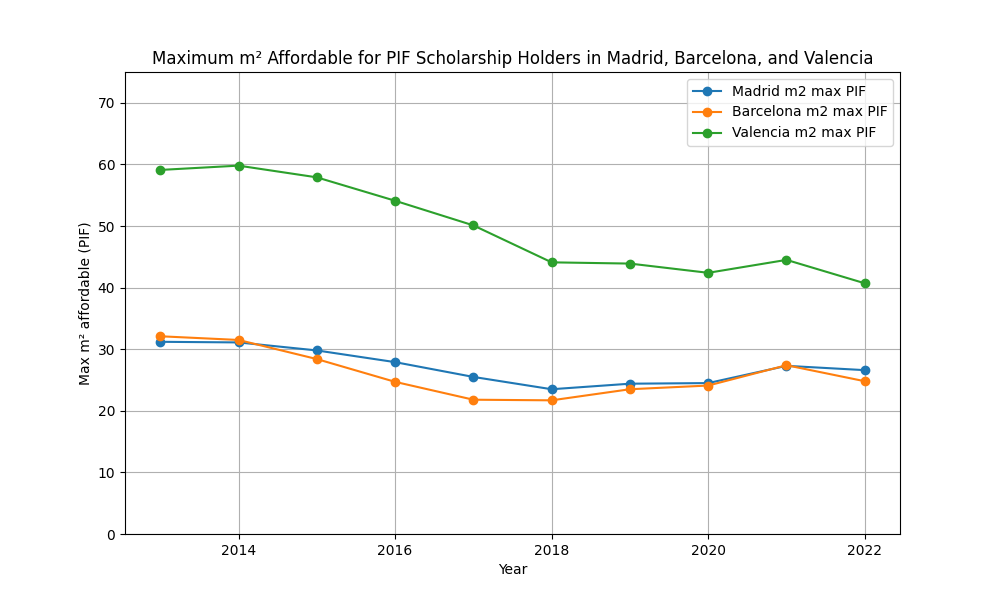
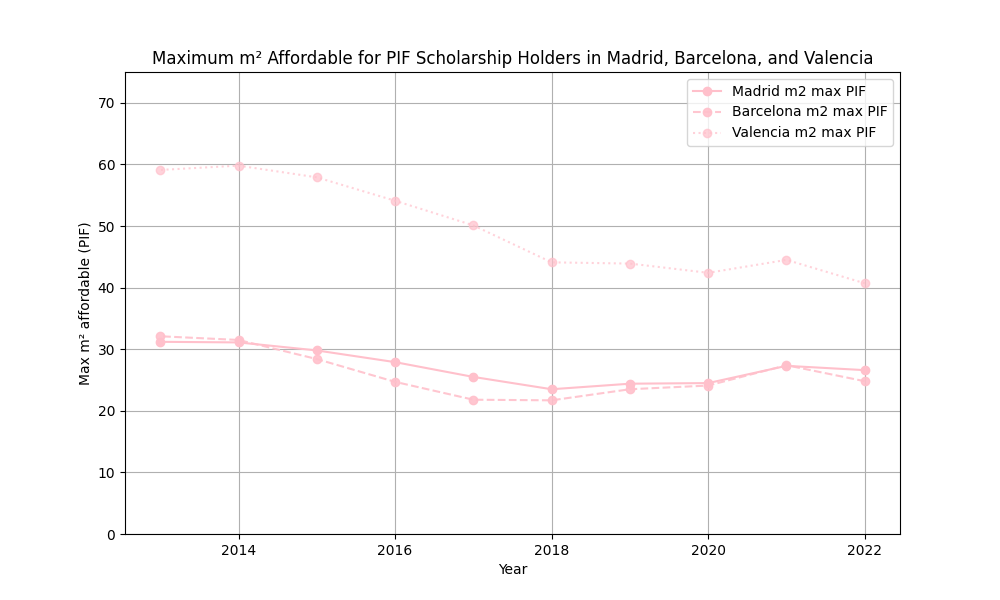
added pif analysis, changed lineplots to ensure readibility

diff --git a/fpu-pif-analysis.py b/fpu-pif-analysis.py
@@ -43,6 +43,30 @@ for _, row in fpu_df.iterrows():
 # Create new DataFrame from expanded rows
 fpu_df_expanded = pd.DataFrame(expanded_rows)
 
+pif_df = pd.read_csv('data/fpi.csv')
+
+# Remove first row from the DataFrames
+pif_df = pif_df.iloc[1:]
+
+# Renaming the columns for better understanding (you can adjust these based on your actual data)
+pif_df.rename(columns={'Unnamed: 0': 'Government', 
+                       'Unnamed: 1': 'Year', 
+                       'Unnamed: 7': 'Mean_Salary'}, inplace=True)
+
+# Drop rows with missing salary data, if any
+pif_df = pif_df.dropna(subset=['Mean_Salary'])
+
+# Convert columns to the correct data types
+pif_df['Year'] = pif_df['Year'].astype(int)
+# Sanitize the salary column by removing the € sign and converting it to float
+
+pif_df['Mean_Salary'] = pif_df['Mean_Salary'].str.replace('€', '').str.replace(',', '').str.replace('.', '').astype(float)/100
+
+        
+# Create new DataFrame from expanded rows
+pif_df_expanded = pd.DataFrame(pif_df)
+
+
 # Sanitze the "Total" column by removing the € sign and converting it to float
 mean_spain_df['Total'] = mean_spain_df['Total'].str.replace('€', '').str.replace(',', '').str.replace('.', '').astype(float)/100
 
@@ -61,6 +85,9 @@ plt.figure(figsize=(10, 6))
 # Plot FPU Mean Salary
 sns.lineplot(data=fpu_df_expanded, x='Year', y='Mean_Salary', marker="o", color='blue', label='FPU Salary', linewidth=2)
 
+# Plot the PIF Mean Salary
+sns.lineplot(data=pif_df_expanded, x='Year', y='Mean_Salary', marker="o", color='pink', label='PIF Salary', linewidth=2)
+
 # Plot Mean Salary in Spain
 sns.lineplot(data=mean_spain_salary_df, x='Periodo', y='Total', marker="o", color='red', label='Mean Salary Spain', linewidth=2)
 
@@ -68,7 +95,7 @@ sns.lineplot(data=mean_spain_salary_df, x='Periodo', y='Total', marker="o", colo
 sns.lineplot(data=mode_spain_salary_df, x='Periodo', y='Total', marker="o", color='green', label='Mode Salary Spain', linewidth=2)
 
 # Customize the plot
-plt.title("FPU Salary vs. Spain's Mean and Mode Salaries", fontsize=14)
+plt.title("PhD salaries vs. Spain's Mean and Mode Salaries", fontsize=14)
 plt.xlabel('Year', fontsize=12)
 plt.ylabel('Annual Salary (€)', fontsize=12)
 
@@ -89,6 +116,5 @@ plt.legend()
 
 # Show the plot
 plt.tight_layout()
-plt.savefig('results/fpu_salary_vs_spain_salaries.png')
+plt.savefig('results/fpu_and_pif_salary_vs_spain_salaries.png')
 plt.show()
-

diff --git a/rent-analysis.py b/rent-analysis.py
@@ -45,9 +45,11 @@ df_cleaned['Valencia_m2_max_FPU'] = clean_m2_column(df_cleaned['Valencia_m2_max_
 
 plt.figure(figsize=(10, 6))
 
-plt.plot(df_cleaned['Year'], df_cleaned['Madrid_m2_max_FPU'], label='Madrid m2 max FPU', marker='o')
-plt.plot(df_cleaned['Year'], df_cleaned['Barcelona_m2_max_FPU'], label='Barcelona m2 max FPU', marker='o')
-plt.plot(df_cleaned['Year'], df_cleaned['Valencia_m2_max_FPU'], label='Valencia m2 max FPU', marker='o')
+plt.plot(df_cleaned['Year'], df_cleaned['Madrid_m2_max_FPU'], label='Madrid m2 max FPU', marker='o', color="blue", alpha=1)
+# Different line style for Barcelona
+plt.plot(df_cleaned['Year'], df_cleaned['Barcelona_m2_max_FPU'], label='Barcelona m2 max FPU', marker='o', color="blue", alpha=0.7, linestyle='--')
+# Different line style for Valencia
+plt.plot(df_cleaned['Year'], df_cleaned['Valencia_m2_max_FPU'], label='Valencia m2 max FPU', marker='o', color="blue", alpha=0.5, linestyle=':')
 
 plt.ylim(0, 75)
 
@@ -73,9 +75,9 @@ df_cleaned['Valencia_m2_max_PIF'] = clean_m2_column(df_cleaned['Valencia_m2_max_
 
 plt.figure(figsize=(10, 6))
 
-plt.plot(df_cleaned['Year'], df_cleaned['Madrid_m2_max_PIF'], label='Madrid m2 max PIF', marker='o')
-plt.plot(df_cleaned['Year'], df_cleaned['Barcelona_m2_max_PIF'], label='Barcelona m2 max PIF', marker='o')
-plt.plot(df_cleaned['Year'], df_cleaned['Valencia_m2_max_PIF'], label='Valencia m2 max PIF', marker='o')
+plt.plot(df_cleaned['Year'], df_cleaned['Madrid_m2_max_PIF'], label='Madrid m2 max PIF', marker='o', color="pink", alpha=1)
+plt.plot(df_cleaned['Year'], df_cleaned['Barcelona_m2_max_PIF'], label='Barcelona m2 max PIF', marker='o', color="pink", alpha=0.9, linestyle='--')
+plt.plot(df_cleaned['Year'], df_cleaned['Valencia_m2_max_PIF'], label='Valencia m2 max PIF', marker='o', color="pink", alpha=0.7, linestyle=':')
 
 plt.ylim(0, 75)
 
